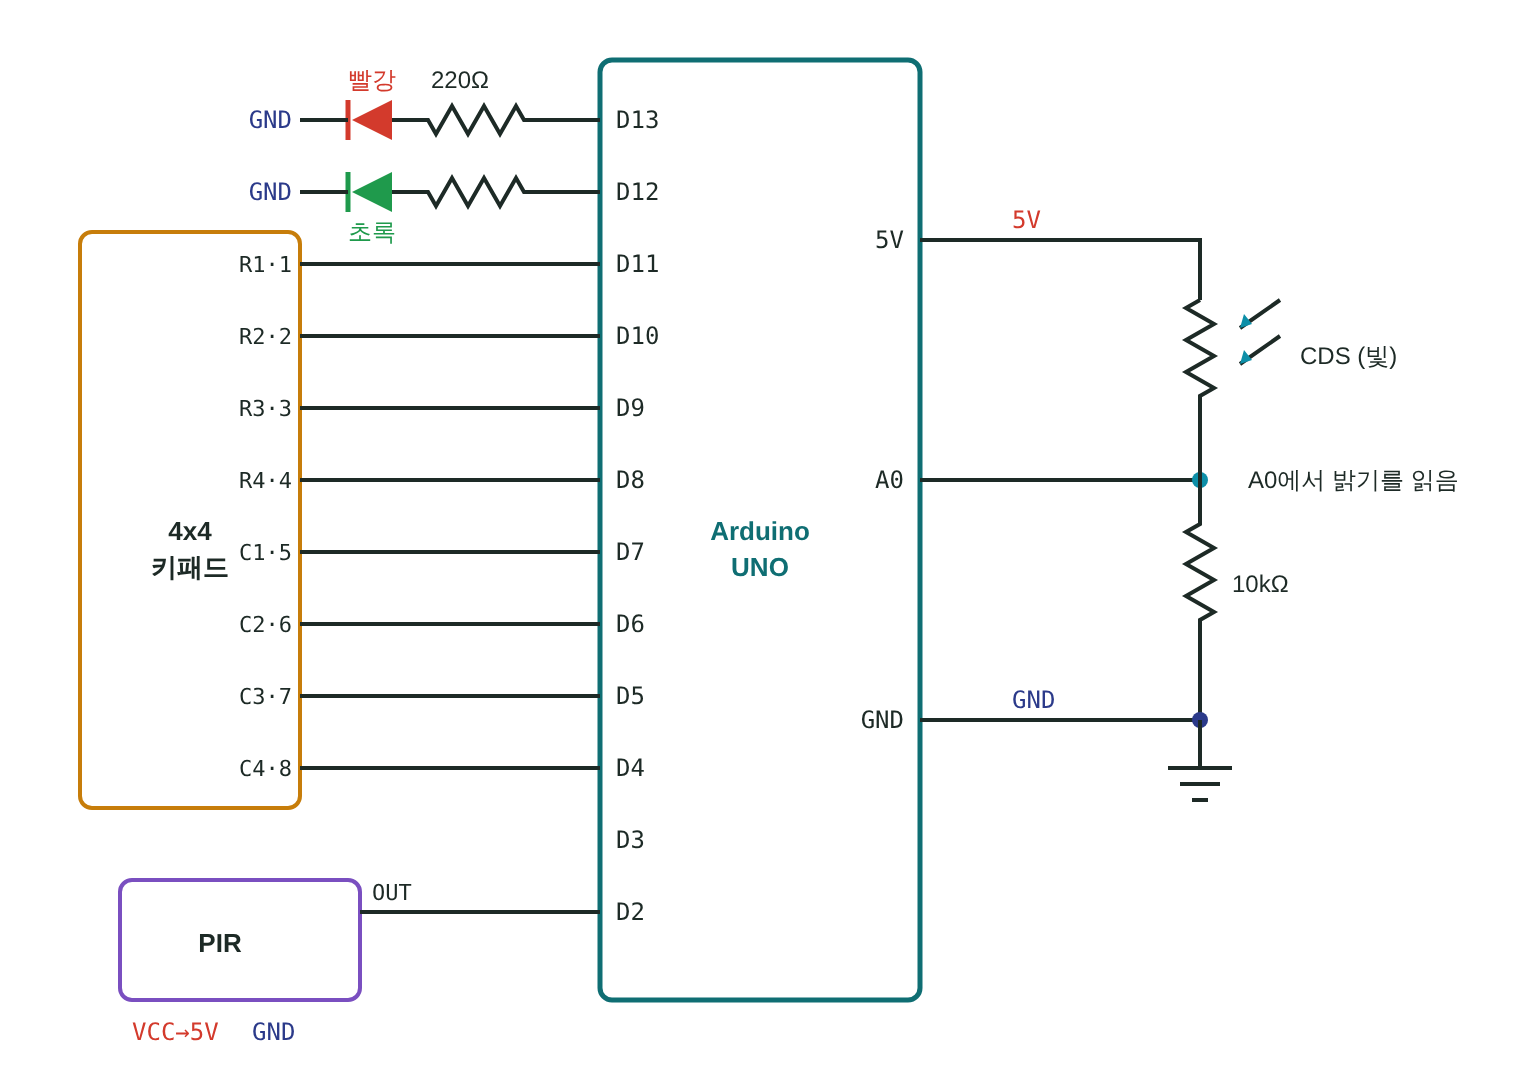
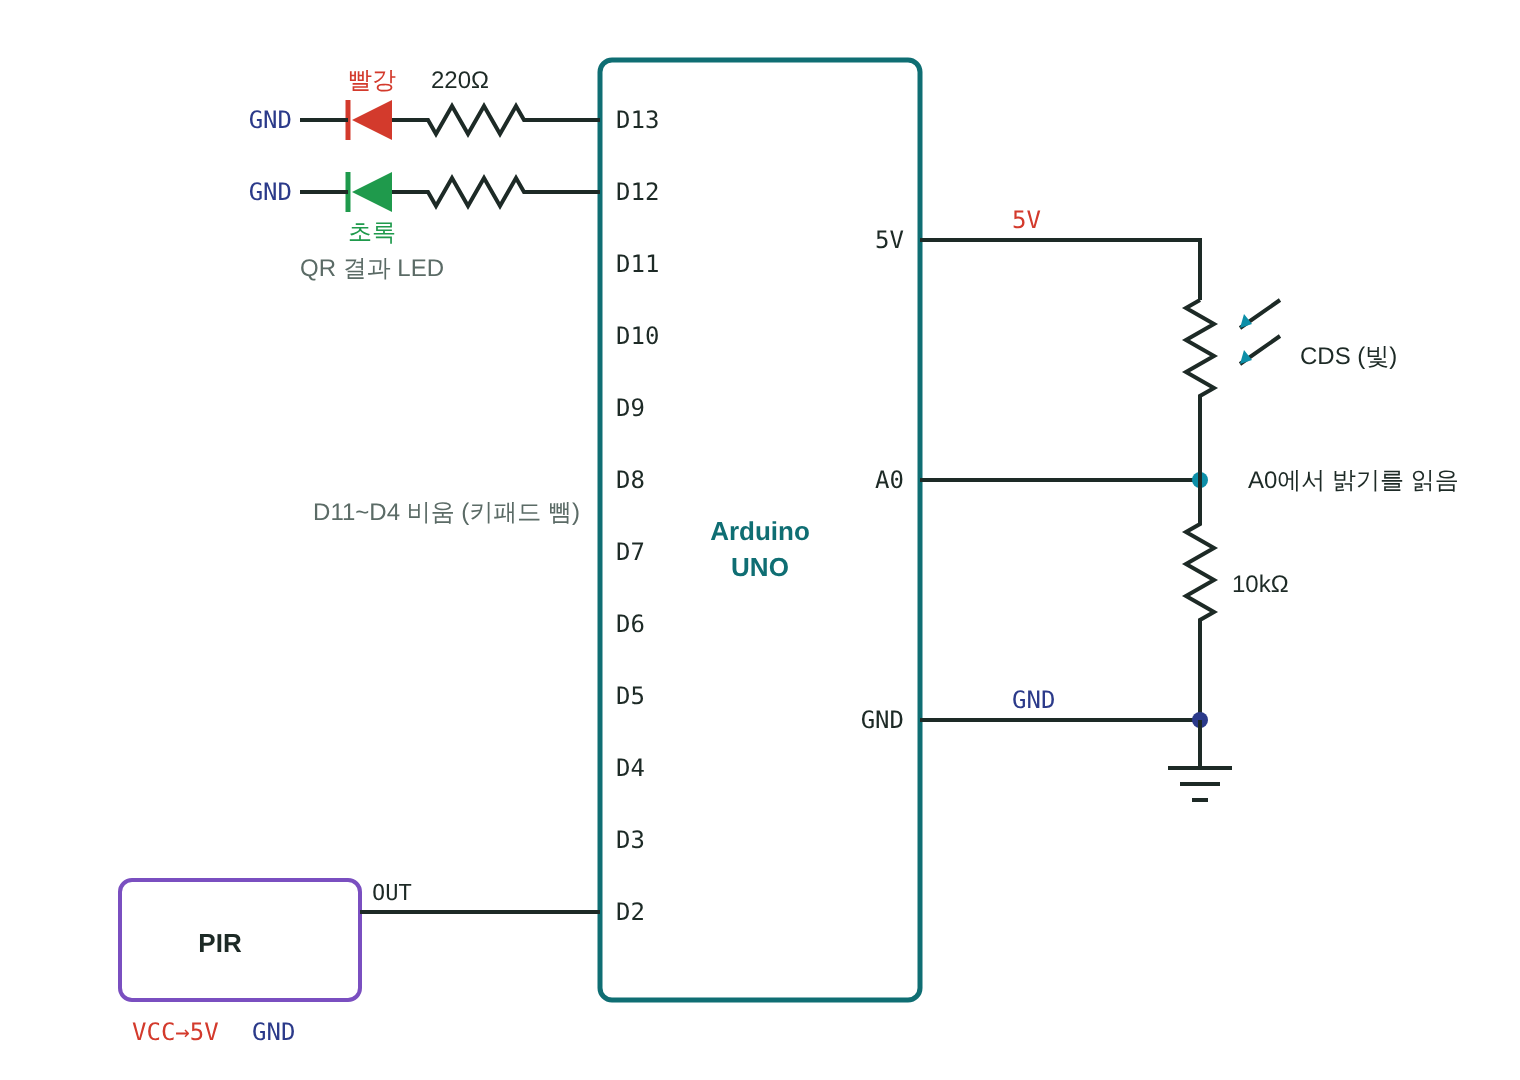
docs: 배선도·회로도에서 키패드 빼기
11/10 키패드 해제에 맞춰 우노 배선도·회로도에서 키패드와 D11~D4 선을 지우고 '비움'으로 적었다.
LED는 QR 결과 표시용으로 남김. png는 svg에서 다시 뽑음(2배).

Claude-Session: https://claude.ai/code/session_01YAvo4zTU5AiyWQadpV6Eq8

diff --git a/README.md b/README.md
@@ -98,7 +98,7 @@ flowchart LR
 | 조도 (CDS) | 5V → CDS → **A0** → 10kΩ → GND (CDS와 10kΩ 사이를 A0에) |
 | 레이더 (LD2410C) | 우노가 아니라 **ESP32**에 달아요 (아래 "ESP32 방 장치") |
 
-배선도·회로도 그림에는 아직 키패드가 그려져 있어요. 11/10에 키패드를 뺐으니 키패드 선은 꽂지 않아도 돼요 (그림은 다음에 고쳐요).
+D11~D4는 비워 둬요. 11/10에 키패드를 뺐어요 (입실은 문 앞 카메라 QR).
 
 ## 5. 실행 방법
 
